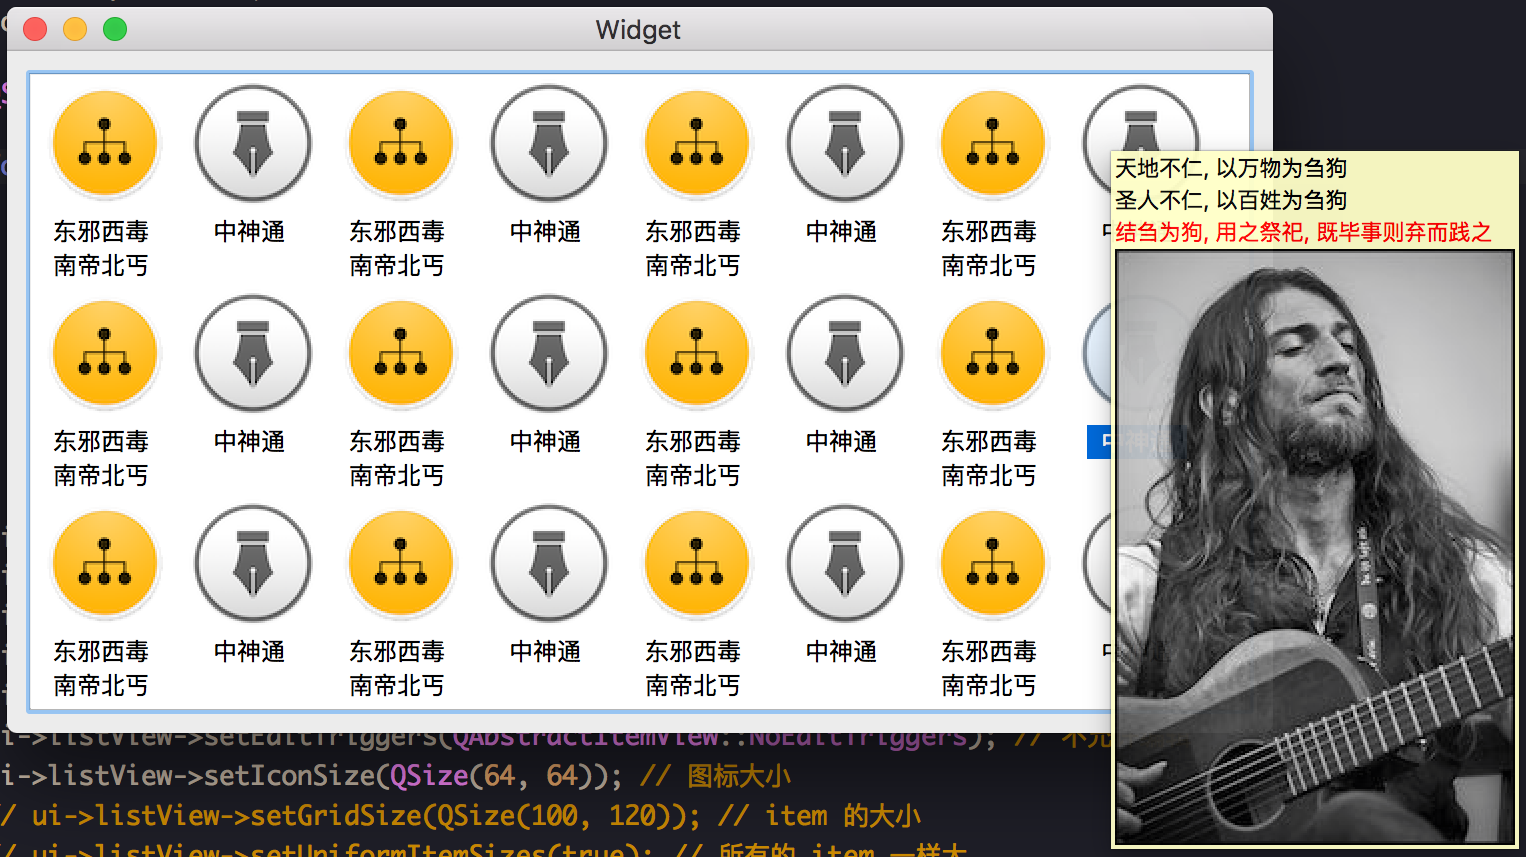
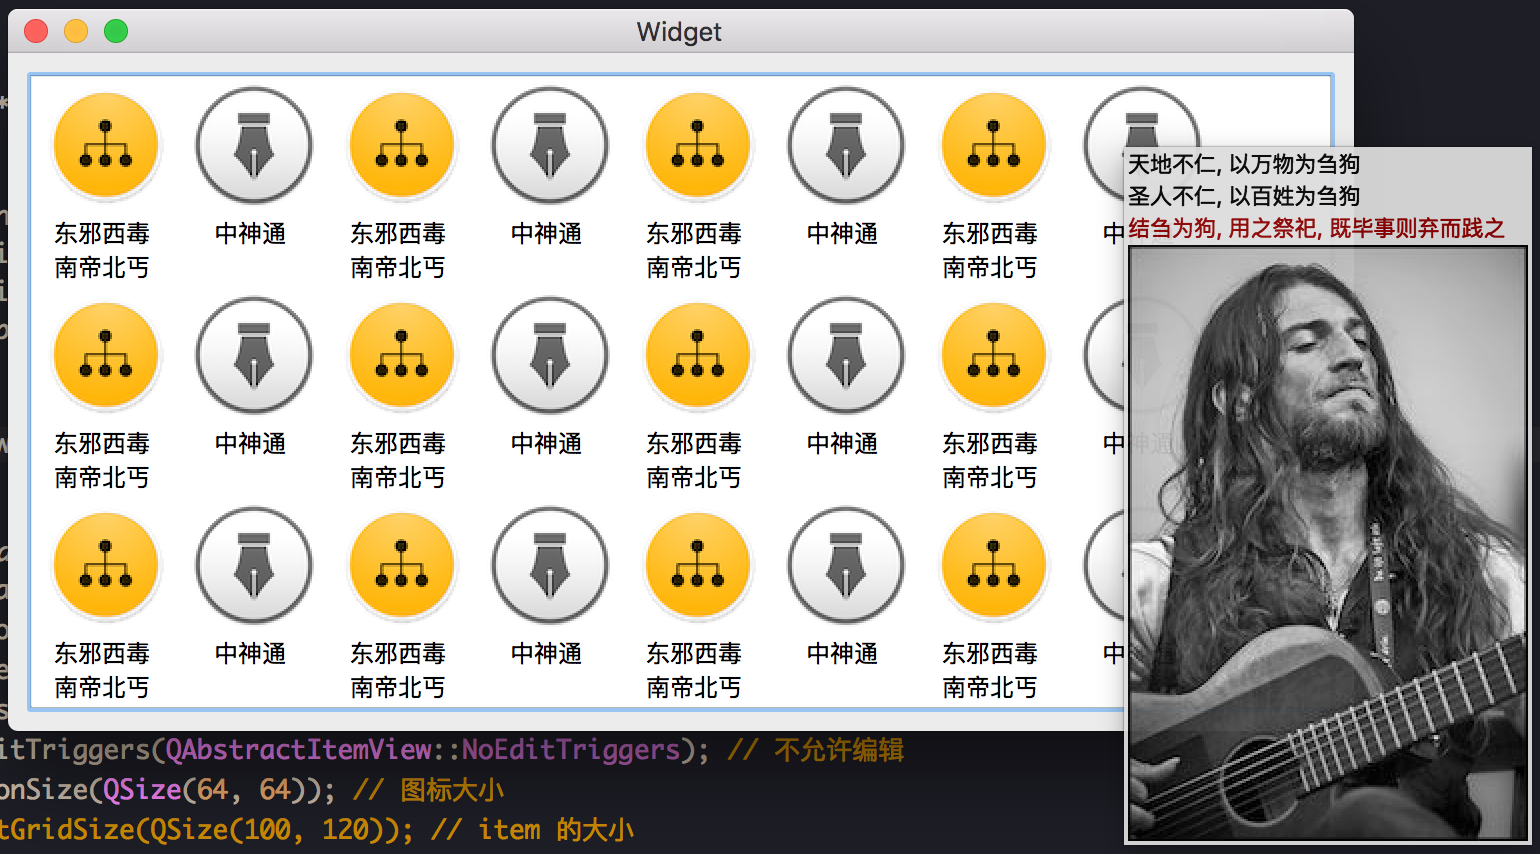
revise

Changed region(s): [[0.0, 0.0, 1.0, 1.0]]

diff --git a/source/_posts/qt-listview.md b/source/_posts/qt-listview.md
@@ -27,7 +27,7 @@ Widget::Widget(QWidget *parent) : QWidget(parent), ui(new Ui::Widget) {
         QString text = i%2==0? "东邪西毒\n南帝北丐":"中神通"; // 可以多行显示
         QStandardItem *item = new QStandardItem(QIcon(iconPath), text);
         item->setToolTip("天地不仁, 以万物为刍狗<br>圣人不仁, 以百姓为刍狗<br>"
-                         "<font color=\"red\">结刍为狗, 用之祭祀, 既毕事则弃而践之</font><br>"
+                         "<font color=\"darkred\">结刍为狗, 用之祭祀, 既毕事则弃而践之</font><br>"
                          "<img src=\"/Users/Biao/Desktop/Estas-Tonne.jpg\">");
         model->appendRow(item);
     }
